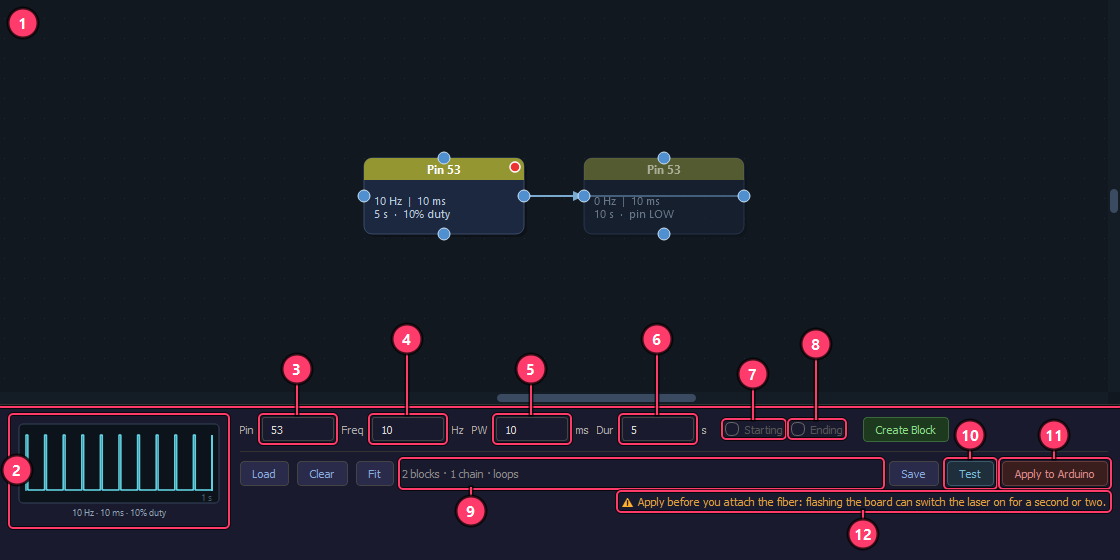
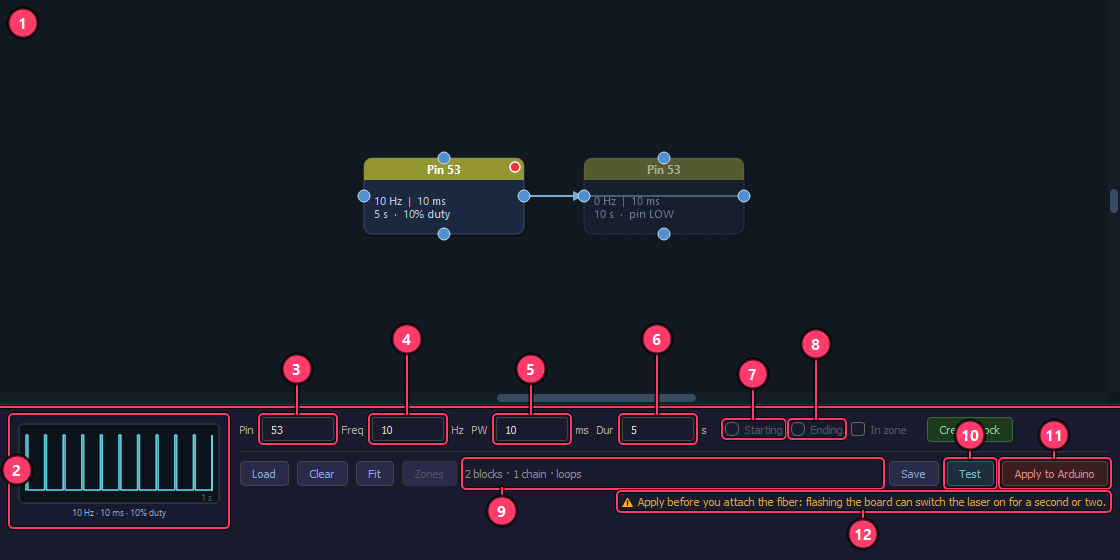
docs: closed-loop screenshots, and the stimulation figures re-rendered
New pictures from our rig, taken by make_screenshots.py's new zones mode
with the trigger board untouched (no serial port opened, nothing flashed):

- zone_editor_cameras.png: the zone editor's cameras page, zones A and B
  drawn on cam5 (WORKFLOW's step 1);
- zone_editor_draw.png: cam5's page with zone A selected, its handles out,
  zone B dimmed, and the tracker's status line (WORKFLOW's step 4, OVERVIEW's
  zone editor, and CLOSED_LOOP's check on the rig);
- stim_zone_block.png: a block on pin 53 that follows zone A (WORKFLOW's
  step 5, OVERVIEW's In zone);
- preview_zones.png: zone A outlined on cam5's pane. The outline appears
  after Apply, which flashes the board, so the run marks zone A applied
  without an Apply; the preview's own code draws it, from the live tracker.
- stim_progress_zone.png: the Expected stimulation panel for one zone
  block, its zone empty and then with a mouse in it, drawn by the panel for
  two made-up moments, as WORKFLOW's top note now says.

Re-rendered: stim_clean.png and stim_annotated.png now show In zone and
Zones, and put the blocks on pin 53 again. Since the gate pin was added,
the figures had taken the profile's first safe pin, 51, the microphone's
gate, which Apply refuses for a stimulation block. sidebar_stim_progress.png
(simulated rig) shows the labelled blocks.

No mouse was in the arena, so the tracker marks none. Checked:
doc_style_check, test_workflow_overview_doc, test_readme_doc,
[…]

Changed region(s): [[0.3438, 0.7893, 0.5312, 0.9411], [0.75, 0.7286, 0.9062, 0.7893]]

diff --git a/docs/WORKFLOW.md b/docs/WORKFLOW.md
@@ -5,7 +5,7 @@ A session is one visit to the rig: we launch Panopticon, tell it which rig and w
 If you haven't set up the rig yet, start with [INSTALLATION.md](INSTALLATION.md). [OVERVIEW.md](OVERVIEW.md) names every part of the window, and if a message pops up that you don't recognise, look it up in [TROUBLESHOOTING.md](TROUBLESHOOTING.md).
 
 > [!NOTE]
-> The screenshots come from our rig, nine Basler cameras described by `profiles/3dpose.yaml`, and so does every number marked "on our rig". Your window will show your own cameras, but everything else works the same way. The pictures of the stimulation bolt and the **Expected stimulation** panel, and the clips of the editor and of a short take, come from the [simulated rig](SIMULATION.md), which shows the same sidebar and editor.
+> The screenshots come from our rig, nine Basler cameras described by `profiles/3dpose.yaml`, and so does every number marked "on our rig". Your window will show your own cameras, but everything else works the same way. The pictures of the stimulation bolt and the **Expected stimulation** panel, and the clips of the editor and of a short take, come from the [simulated rig](SIMULATION.md), which shows the same sidebar and editor. The pair of panels under [Closed-loop stimulation](#closed-loop-stimulation) is drawn by the panel itself for two made-up moments.
 
 You'll keep coming back to two places in the window. The **state label** is the coloured word at the bottom right of the sidebar, and it reads **IDLE** whenever Panopticon is waiting for you. The **status bar** is the line of text along the bottom of the window.
 
@@ -441,13 +441,26 @@ One laser needs one zone, however many shapes make it up: a mouse in any of its 
 Your profile needs a [`closed_loop`](CONFIGURATION.md#closed_loop) block, and the model needs a Python environment of its own ([Set up the tracker](#set-up-the-tracker)). Then, in the stimulation editor:
 
 1. Fill in the block's **Pin**, **Freq**, **PW** and **Dur** as usual, tick **In zone** with no block selected, and press **Create Block**. The zone editor opens, with every camera's live view.
+
+    ![The zone editor's cameras page, with zones A and B drawn on cam5](images/zone_editor_cameras.png)
+
 2. Click the camera you'll draw on. The one above the arena is the safe choice: in a side view, a zone on the floor doesn't line up with a point on the mouse's back. The camera opens large, and the new zone gets the next free letter.
 3. Draw the zone with **Rectangle**, **Ellipse** or **Polygon**. Drag from corner to corner for a rectangle or an ellipse, and hold <kbd>Shift</kbd> for a square or a circle. For a polygon, click each corner and double-click (or press <kbd>Enter</kbd>) to close it. A right click takes back a corner. Any number of shapes can make up the zone.
 4. Switch to **Select** to adjust: click a shape, drag it to move it, and drag a handle to resize it, or a polygon's corner to move that corner. <kbd>Ctrl</kbd>+<kbd>C</kbd> and <kbd>Ctrl</kbd>+<kbd>V</kbd> copy and paste shapes, and <kbd>Delete</kbd> removes them. Each zone has its own colour, and the mice the tracker finds are marked with lime circles. Watch them for a minute: every mouse should carry one, and nothing else should. If not, see [`min_confidence`](CONFIGURATION.md#closed_loopmin_confidence).
+
+    ![cam5's page in the zone editor, with zone A selected and zone B dimmed](images/zone_editor_draw.png)
+
 5. Press **Use zone A**. The block appears with `zone A` in its header. To make another block follow the same zone, create it the same way and pick zone A from the list. To give it a zone of its own, press **New zone**. On a camera's page, the new zone starts on that camera. On the cameras page, click the camera for it. With **Select**, a click on another zone's dimmed shape switches to that zone.
+
+    ![A block on pin 53 that follows zone A](images/stim_zone_block.png)
+
 6. Apply as usual, and press **Save** to keep the paradigm and its zones in one file. Panopticon never brings a zone back by itself: **Load** the file next time, double-click a zone block to open its zone, and check it still lines up, since the arena can sit a little differently from one session to the next.
 
 Once the paradigm is applied, the main window's preview outlines each zone it follows on its camera, in the zone's colour, and fills the zone while a mouse is in it. While a recording runs, the zones can be looked at but not changed, and the Expected stimulation panel says, for each zone block, whether a mouse is in its zone. A running zone block keeps its yellow outline throughout, and lights only while a mouse is in its zone.
+
+![Zone A outlined on cam5's pane after Apply](images/preview_zones.png)
+
+![The Expected stimulation panel with zone A empty, then with a mouse in it](images/stim_progress_zone.png)
 
 With the defaults the tracker looks at 10 frames a second of every camera a zone is drawn on, and a zone turns on once a mouse has been in it for 2 tracked frames in a row and off after 3 without one ([`enter_updates`](CONFIGURATION.md#closed_loopenter_updates)). The pulses then start 0.1 to 0.2 s after a mouse enters, and stop 0.2 to 0.3 s after it leaves. A pulse already running when a zone turns off still finishes, and a mouse that comes straight back never makes the pulses come faster than the block's frequency.
 

diff --git a/docs/OVERVIEW.md b/docs/OVERVIEW.md
@@ -272,7 +272,11 @@ top, because it only shows during such a recording. Here it follows a short para
 It draws your canvas in miniature, with pulsing blocks in purple and pauses in grey,
 each labelled with its pin, what it drives and its duration, as far as the block's size
 allows. It outlines the block each chain should be running in yellow and lights it. A
-block ticked **In zone** lights only while a mouse is in its zone. Under it, a
+block ticked **In zone** lights only while a mouse is in its zone, as on the right here:
+
+![The Expected stimulation panel with zone A empty, then with a mouse in it](images/stim_progress_zone.png)
+
+Under the miniature, a
 line per chain names that block and counts down the time left in it, and the title
 counts the time since the first trigger. When every chain has finished, the blocks dim
 and the title reads **over**. If your canvas is too wide to shrink legibly, the panel
@@ -587,6 +591,8 @@ pin, and a double click on the block opens its zone. It needs a profile with a
 [`closed_loop`](CONFIGURATION.md#closed_loop) block.
 [Closed-loop stimulation](WORKFLOW.md#closed-loop-stimulation) shows a session.
 
+![A block on pin 53 that follows zone A](images/stim_zone_block.png)
+
 #### The zone editor
 
 The zone editor lists the paradigm's zones on the left, each in its own colour with
@@ -599,6 +605,8 @@ corner, then **Polygon**, **Rectangle** and **Ellipse** to draw, and **Copy**,
 **Paste** and **Delete**. Another zone's shapes on the same camera are dimmed, and a
 click on one with **Select** switches to that zone. The mice the tracker finds are
 marked with lime circles, and **Cameras** goes back to every camera.
+
+![cam5's page in the zone editor, with zone A selected and zone B dimmed](images/zone_editor_draw.png)
 
 #### 9. Status line
 

diff --git a/docs/CLOSED_LOOP.md b/docs/CLOSED_LOOP.md
@@ -101,6 +101,8 @@ Copy the export folder to the rig computer, and name the model and the tracker's
 ### Check it on your rig
 
 1. Open the stimulation editor's **Zones**, and click a camera. The status line reads, for example, `Tracker running · cam5 tracked 10.0 times a second, 6.5 ms a frame, 2 mice`.
+
+    ![cam5's page in the zone editor, with the tracker's status line along the bottom](images/zone_editor_draw.png)
 2. With animals in the arena, watch each camera you'll draw zones on for a minute. Every animal should carry a lime circle, and nothing else should. If something that isn't an animal is marked, raise [`min_confidence`](CONFIGURATION.md#closed_loopmin_confidence). If animals go unmarked, lower it, or train the model on more frames from that camera.
 3. Keep hands out of a zone while an animal is stimulated: a model can take a hand for an animal. Ours does.
 4. Record a session with zones, and score it afterwards. `closed_loop.csv` keeps every detection with its confidence, as `x:y:confidence`, so you can check another threshold without recording again.
